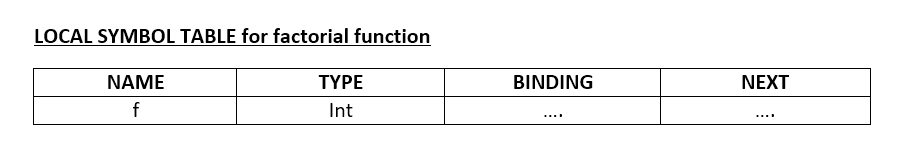
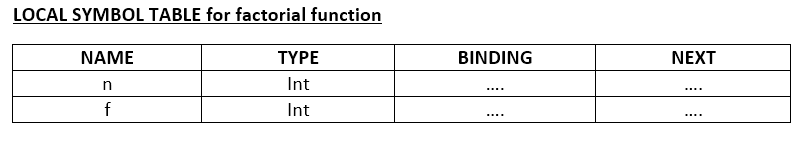
fix

Changed region(s): [[0.0, 0.1795, 0.9889, 0.7692], [0.0, 0.0256, 0.4944, 0.1538], [0.0309, 0.7949, 0.958, 0.8205]]

diff --git a/roadmap.html b/roadmap.html
@@ -899,44 +899,44 @@
                                 &emsp;end<br>
                                 }<br>
                             </div>
-                            Local variables declared in a function are <i>visible only</i> within the function.  We say that the <b>scope</b> of a local declaration is limited to the function. Moreover, if a global variable has a re-declaration inside a function, <i>the local declaration overrides the global declaration</i>.
+                            Local variables declared in a function are <i>visible only</i> within the function.  We say that the <b>scope</b> of a local declaration is limited to the function. Moreover, if a global variable is redeclared inside a function, <i>the local declaration overrides the global declaration</i>.
                         </p>
                         <p>
-                            Thus, we have two kinds of variables. Global variables and functions that are visible "everywhere" (or having a <b>global scope</b>) and local variables that are visible only within the functions (or having a <b>local scope</b>) where they are declared.
+                            Thus, we have two kinds of variables. Global variables that are visible "everywhere" (or having a <b>global scope</b>) and local variables that are visible only within the functions (or having a <b>local scope</b>) where they are declared.
                         </p>
                         <p>
-                            The compiler needs to know the binding addresses and type of the local variables for translation of statements of the function to assembly code.  However, this information is irrelevant outside the function.
+                            The compiler needs to know the binding addresses and types of the local variables for translation of statements of the function to assembly code.  However, this information is irrelevant outside the function.
                         </p>
                         <p>
                             To keep track of the local variable and scope information, our strategy is to keep global and local variables in different symbol tables.  We will have 
                             <ul>
                                 <li id="otis">
-                                    1.  A single <b>global symbol table</b> storing the (name, type, size, binding) information of global variables as well as (name, type, parameters, binding) information for functions.  The following structure is suggested for storing a global symbol table entry.
+                                    1.  A single <b>global symbol table</b> storing the <i>(name, type, size, binding)</i> information of global variables as well as <i>(name, type, parameters, binding)</i> information for functions.  The following structure is suggested for storing a global symbol table entry.
 
                                     <div class="syntax">
                                         <b>struct Gsymbol{</b><br>
                                         &emsp;&emsp;<b>char *name;</b>   //name of the variable or function<br>
                                         &emsp;&emsp;<b>int type;</b>     //type of the variable:(Integer / String)<br>
                                         &emsp;&emsp;<b>int size;</b>     //size of an array<br> 
-                                        &emsp;&emsp;<b>int binding;</b>  //stores the static memory address allocated to the variable <br>
+                                        &emsp;&emsp;<b>int binding;</b>  //static binding of global variables <br>
                                         &emsp;&emsp;<b>struct Paramstruct *paramlist;</b>//pointer to the head of the formal parameter list<br>
                                           &emsp;&emsp;&emsp;&emsp;&emsp;&emsp;&emsp;&emsp;&emsp;&emsp;&emsp;&emsp;&emsp;&emsp;&emsp;&emsp;&emsp;&emsp; //in the case of functions<br>
-                                        &emsp;&emsp;<b>int flabel;</b>              //a label for identifying the starting address of the function's code<br>
+                                        &emsp;&emsp;<b>int flabel;</b>              //a label for identifying the starting address of a function's code<br>
                                         &emsp;&emsp;<b>struct Gsymbol *next;</b>     //points to the next Global Symbol Table entry<br>
                                         <b>};</b>
                                     </div>
                                 </li>
 
                                 <li id="otis">
-                                    2.  Several <b>local symbol tables</b> - one for each function containing the (name, type, binding) information for each local variable of the function.  (Note that since the language does not permit arrays to be defined within a function, the size value of local variables is always 1, hence the field is not required).   A local symbol table entry can be stored in the following structure:</li>
+                                    2.  Several <b>local symbol tables</b> - one for each function containing the <i>(name, type, binding)</i> information for each local variable of the function.  (Note that since the language does not permit arrays to be defined within a function, the size value of local variables is always 1, hence the field is not required).   A local symbol table entry can be stored in the following structure:</li>
 
                                     <div class="syntax">
-                                    <b>struct Lsymbol{</b><br>
-                                    &emsp;&emsp;<b>char *name;</b>&emsp;&emsp;&emsp;&emsp; //name of the variable<br>
-                                    &emsp;&emsp;<b>int  type;</b> &emsp;&emsp; //type of the variable:(Integer / String)    <br>
-                                    &emsp;&emsp;<b>int binding;</b>&emsp;&emsp;&emsp;&emsp; //local binding of the variable<br>
-                                    &emsp;&emsp;<b>struct Lsymbol *next;</b>&emsp;&emsp; //points to the next Local Symbol Table entry<br>
-                                    <b>};</b>
+                                        <b>struct Lsymbol{</b><br>
+                                        &emsp;&emsp;<b>char *name;</b>&emsp;&emsp;&emsp;&emsp; //name of the variable<br>
+                                        &emsp;&emsp;<b>int  type;</b> &emsp;&emsp; //type of the variable:(Integer / String)    <br>
+                                        &emsp;&emsp;<b>int binding;</b>&emsp;&emsp;&emsp;&emsp; //local binding of the variable<br>
+                                        &emsp;&emsp;<b>struct Lsymbol *next;</b>&emsp;&emsp; //points to the next Local Symbol Table entry<br>
+                                        <b>};</b>
                                     </div>
       
                                     <b>Note:</b> As noted in the <a href="run-data-structures.html" target="_blank">run time storage allocation</a> documentation, local variables cannot be assigned static memory addresses.  Hence, the binding of a local variable is a relative address within the function's activation record.  We will discuss this matter in detail later.
@@ -947,7 +947,7 @@
                             What is the <b>stored in flabel</b>?  When the compiler generates code for the function, a label is placed at the start of the function.  A call to the function is translated to a low-level CALL to the corresponding label.   Later, the label has to be replaced by the address  of the instruction during the <a href="label-translation.html" target="_blank">label translation phase</a>.
                         </p>
                         <p>
-                            The simple scheme we suggest here is to put the label F0 before the code of the first function declared in the program, F1 before the code of the second and so on.  Hence, in the binding field of the first function, store 0.  Similarly, store 1 in the binding field of the second and so on. A call to the first function must be translated to CALL F0 and so on.
+                            The simple scheme we suggest here is to put the label F0 before the code of the first function declared in the program, F1 before the code of the second and so on.  Hence, in the flabel field of the first function, store 0.  Similarly, store 1 in the flabel field of the second function and so on. A call to the first function must be translated to CALL F0 and so on.
                         </p>
                         <p>
                             With this, the global symbol table for the <a href="run_data_structures/run-time-stack.html#nav-illustration" target="_blank">program</a> would be as below.
@@ -956,14 +956,16 @@
                             <img src="img/gsymboltable3.png">
                         </p>
                         <p>
-                            Continuing with the above example, we need two local symbol tables – one for the main function and one for the factorial function.  The local symbol table holds the (name, type, binding) triple for each formal parameter as well as local variables of the function.  We will discuss the binding of local variables later.  The local symbol tables of mail and factorial would look as the following:
+                            Continuing with the above example, we need two local symbol tables – one for the main function and one for the factorial function.  The local symbol table holds the (name, type, binding) triple for each <b>formal parameter</b> as well as <b>local variables</b> of the function.  We will discuss the binding of formal parameters and local variables later.  The local symbol tables of main and factorial would look as the following:
                         </p>
                         <p>
                             <img src="img/localsymboltable2.png"> 
                             <img src="img/localsymboltable1.png"> 
                         </p>
                         <p>
-                            See LINK for more details. <br> 
+                            See <a href="data_structures/local-symbol-table.html" target="_blank">LINK</a> for more details. For now, ignore the type table pointer in the structure given in the link.  This will be discussed in the next stage.  
+                        </p>
+                        <p> 
 
                             <div class="syntax">
                                 <b>Task 1</b>:  Complete the program to build the global symbol table.  Test your program by printing out all global declarations in the program by displaying the contents of the symbol table.  You must not permit a two variables/functions (or a function and a variable) to have the same name.
